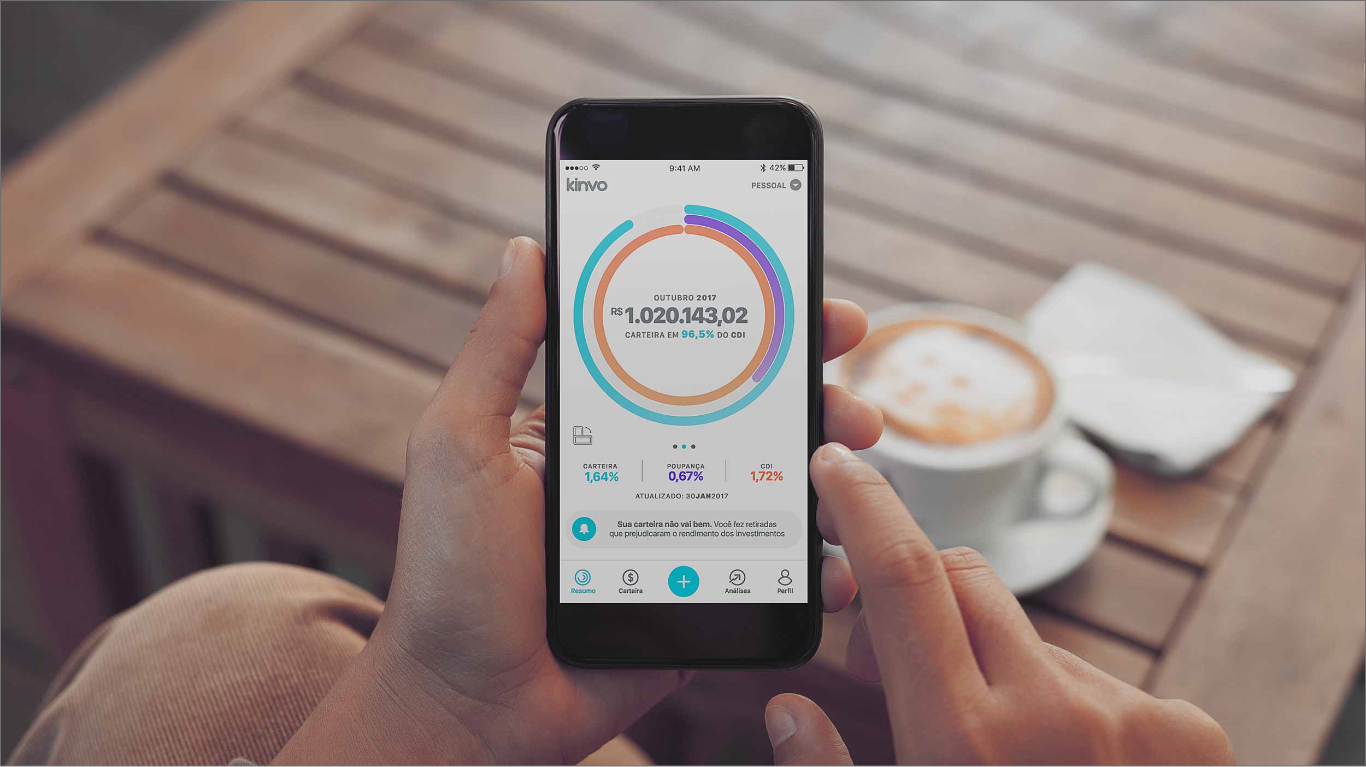
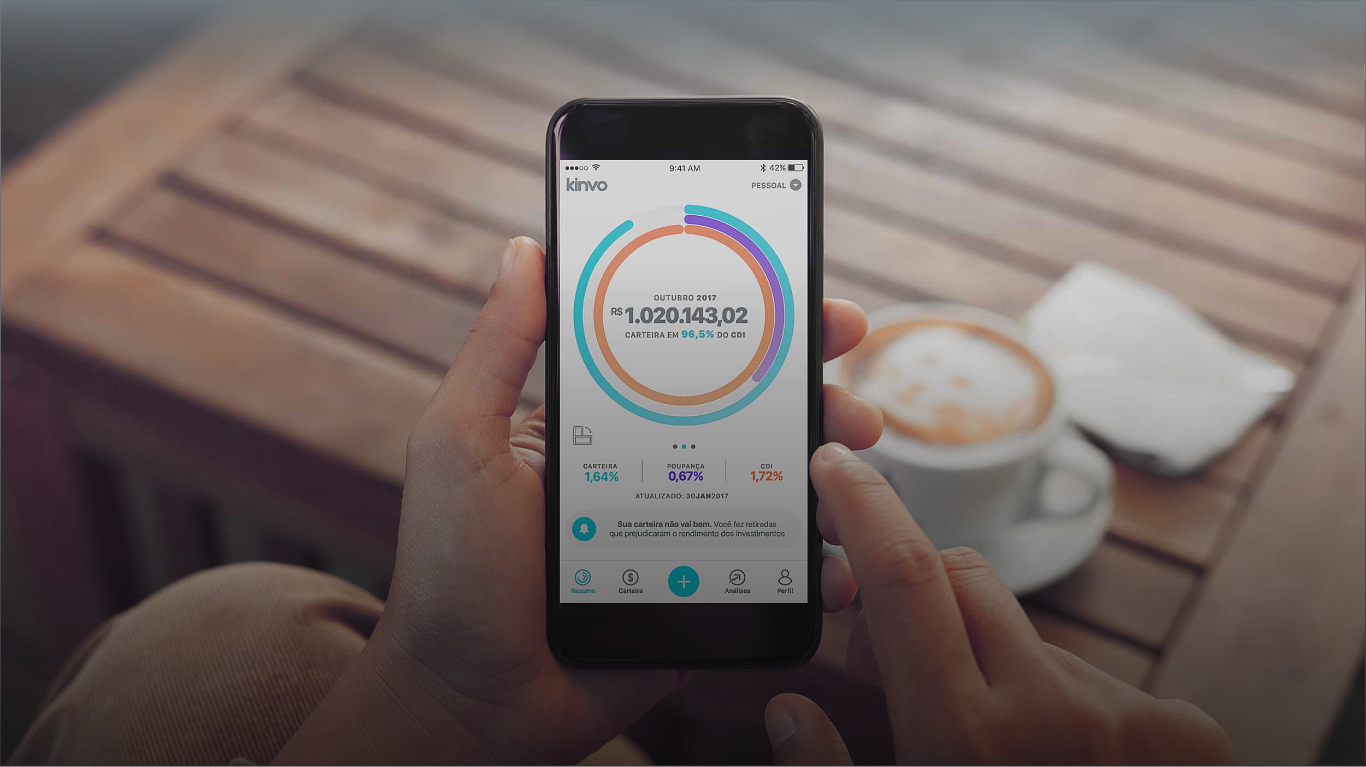
sobre app-img - no mask

diff --git a/src/components/Sobre/index.js b/src/components/Sobre/index.js
@@ -10,10 +10,9 @@ class Sobre extends Component {
         return (
             <section id="sobre">
                 <div id="container">
-                <img id="main-background" alt="background main" src= {mainbg}/>
                 <h1><span>O controle </span>dos<br/> seus <span>investimentos </span>na palma da mão.</h1>
-                <img className= "app-img img1"alt="android-img" src = {androidimg}/>
-                <img className= "app-img img2"alt="ios-img" src = {iosimg}/>
+                <img className = "app-img img1" alt="android-img" src = {androidimg}/>
+                <img className = "app-img" alt="ios-img" src = {iosimg}/>
                 </div>
                 <h2>Sobre o kinvo</h2>
                 <p>

diff --git a/src/components/Sobre/style.css b/src/components/Sobre/style.css
@@ -20,12 +20,21 @@ h1 {
 
 .app-img {
     position: absolute;
-    padding: 1vh 10vw;
+    padding: 1vh 2vw;
     /* margin-left: 10vw; */
-    margin-top: -30vh;
+    margin-top: 80vh;
     /* visibility: hidden; */
+    z-index: 5;
 }
 
 .img1 {
-    margin-left: 10vw;
+    margin-left: 9vw;
+}
+
+#container {
+    width: 100vw;
+    height: 100vh;
+    background-image: url("./main-bg.png");
+    /* mask-image: url("./mask-1.png"); */
+
 }
